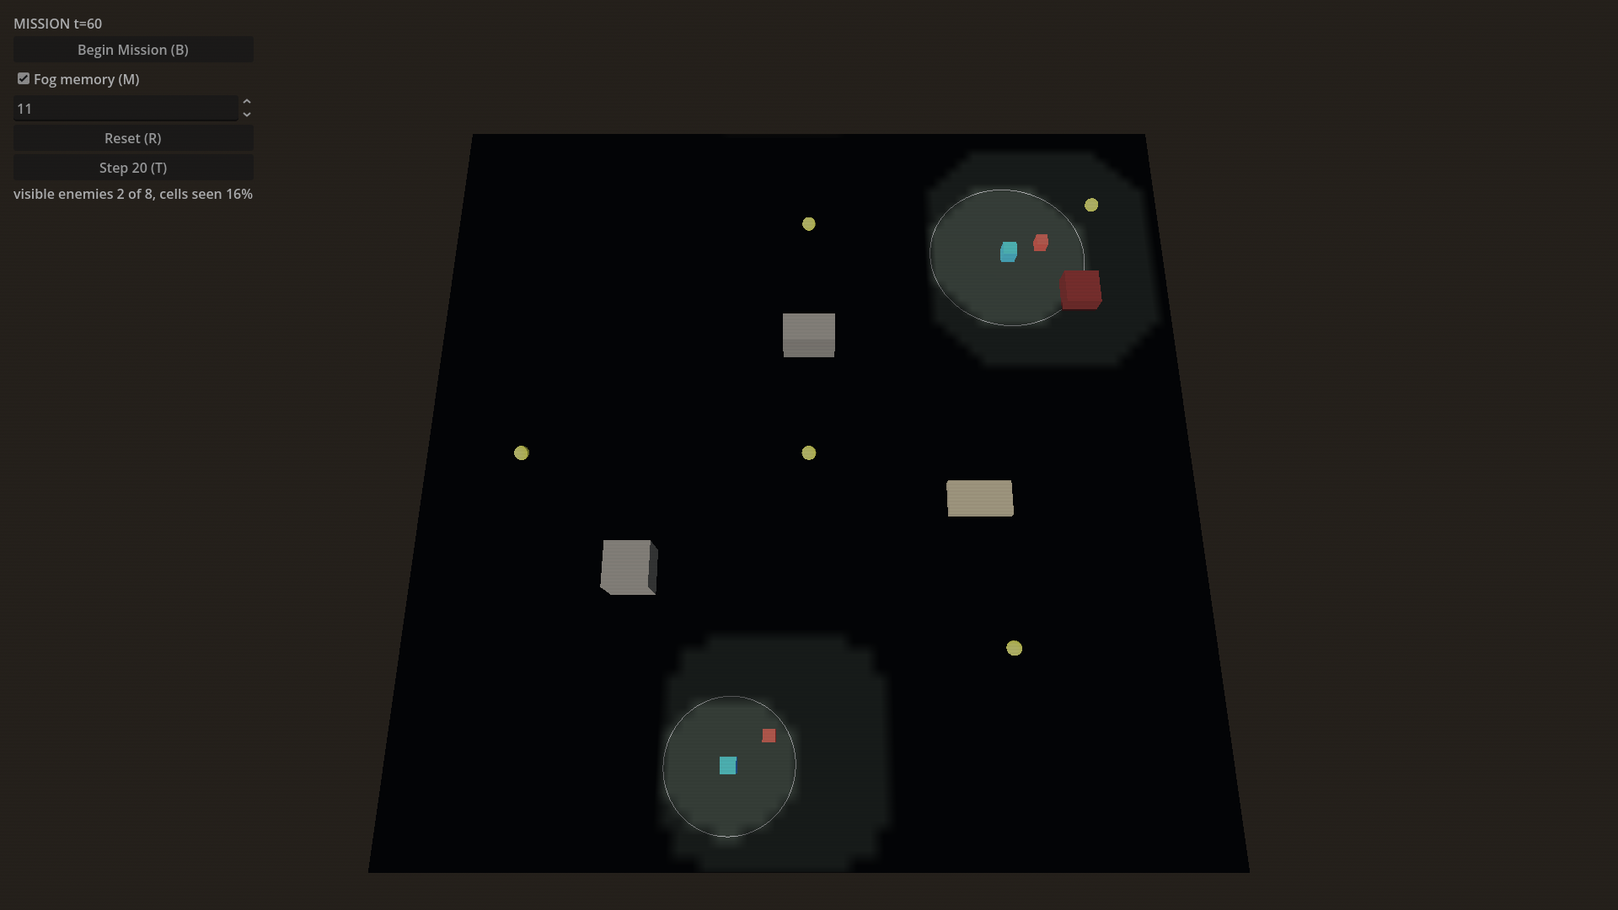
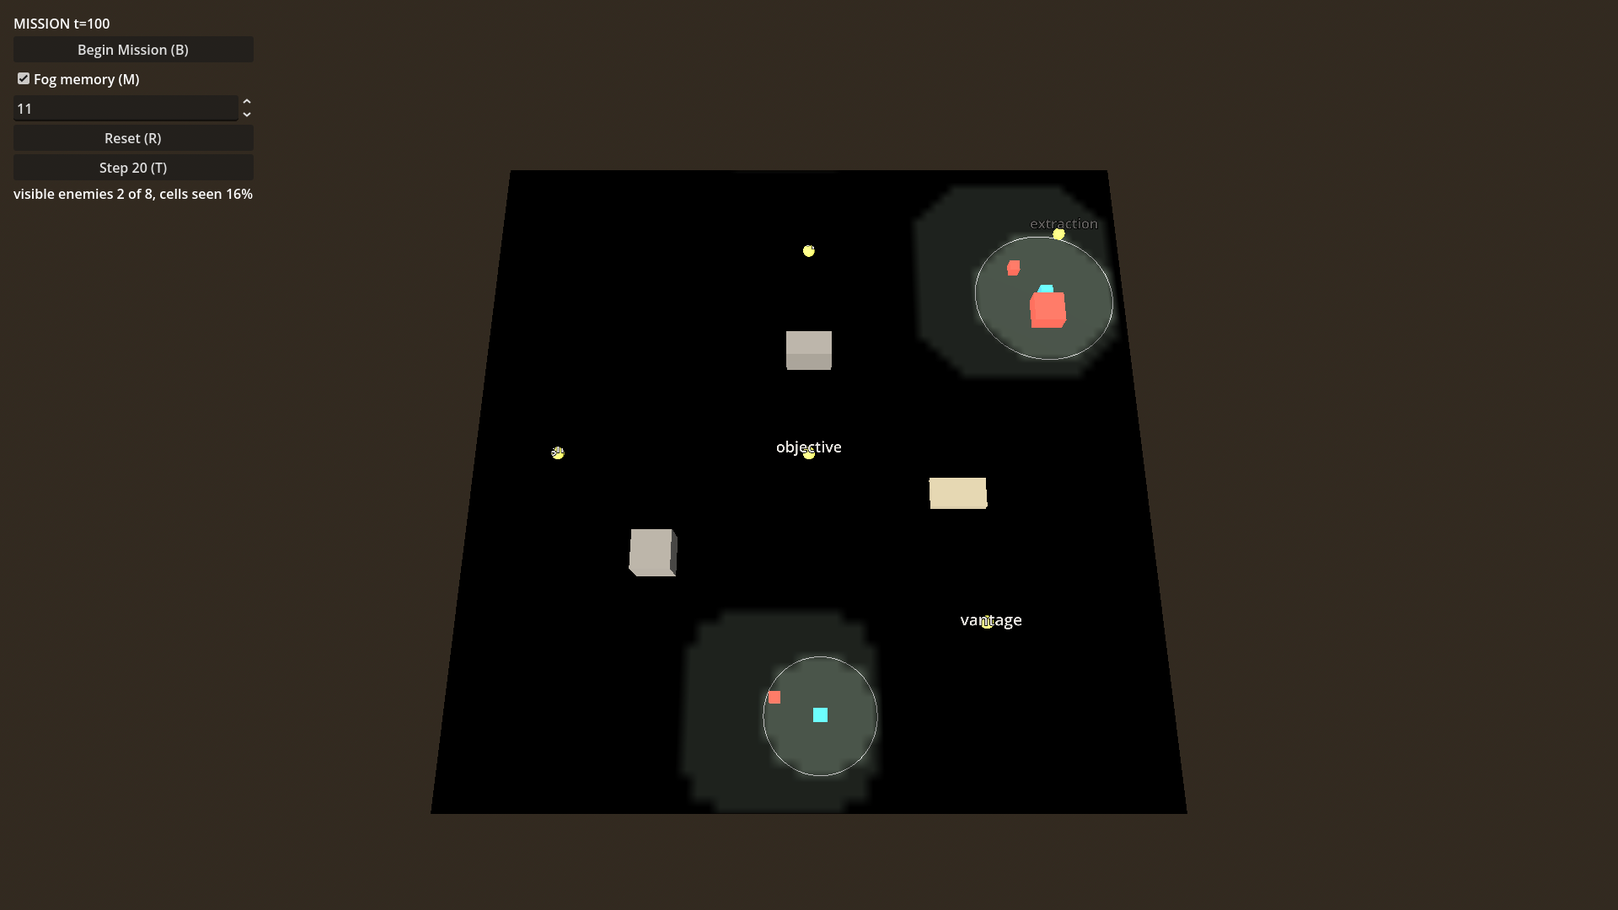
docs(mockup/fog): pass-2 screenshots, checklist, README after fresh-eyes fixes
Rerun qa/smoke.json clean (1280x720 + 1920x1080) and 3 oracle plants
after merging main's qa_boot autoload fix. Replaced pass1/ with the
new shots (recon/begin/t100/t300/memory_off/in_interference/
close_ring/map_zoom regenerated, memory_off_full added). checklist.md
numbers refreshed: HUD readout now 0 in recon (was 3 of 8), node
labels legible in every shot, RECON-X/HIDDEN-X/RING-X pixel probes
re-measured at the new camera position, DET-1 hash unchanged
(4183577953, confirms no sim-state regression). README's
"Environmental finding" corrected: pass-1's hang was qa_boot not
freeing autoloads before instantiating the mockup (fixed upstream
in b65afa8), not machine contention as originally diagnosed.
Questions for Westley #1 trimmed to the two real candidates and
points at memory_off_full as the clearest proving shot.

diff --git a/scenes/mockups/fog/qa/checklist.md b/scenes/mockups/fog/qa/checklist.md
@@ -1,6 +1,6 @@
 # Fog mockup QA checklist
 
-Real measured numbers from `scripts/mockup_qa.sh` and `scripts/mockup_verify.sh` runs on 2026-09-22, Godot 4.6.3, llvmpipe (Compatibility/`gl_compatibility`), 1280x720 unless noted. This machine was under heavy contention while these were measured (~30 concurrent Godot QA processes from other agent sessions, load average 18-23 on 16 cores) — see the report's "Environmental finding" for what that did to the run strategy. Every threshold here is a candidate; Westley owns the final number.
+Real measured numbers from `scripts/mockup_qa.sh` and `scripts/mockup_verify.sh` runs, re-measured 2026-09-22 (pass-2, post fixes) on Godot 4.6.3, llvmpipe (Compatibility/`gl_compatibility`), 1280x720 unless noted, after merging main's `b65afa8` (qa_boot frees autoloads before instantiating the mockup; the earlier "hangs after 4-5 shots" was that bug, not machine contention — see the report). The full `qa/smoke.json` now runs single-shot inside its 600s timeout. Every threshold here is a candidate; Westley owns the final number.
 
 ## Check table
 
@@ -10,12 +10,12 @@ Real measured numbers from `scripts/mockup_qa.sh` and `scripts/mockup_verify.sh`
 | VIS-2 | sensor 700 sees 650 not 750; interference 0.5 sees 350 not 351; union of two friendlies | all 5 sub-conditions true (`VERIFY OK`) | radius-ignored | `PLANT radius-ignored LIVE (1 FAIL)` |
 | LOS-3 | enemy behind tall obstacle not visible; visible once obstacle removed | both true (`VERIFY OK`) | los-ignored | `PLANT los-ignored LIVE (1 FAIL)` |
 | VIEW-4 | 3 of 8 enemies in `view_enemy_uids`; `FogView` enemy-node count == 3; no leaked uid | true (`VERIFY OK`) | fog-leak | `PLANT fog-leak LIVE (2 FAIL)` |
-| RECON-5 | recon: all cells `visible` for terrain, `view_enemy_uids` empty, hash unchanged over 20 ticks, tick stays 0; Begin: most cells `never_seen`, terrain nodes still drawn | true (`VERIFY OK`) | recon-shows-enemy | `PLANT recon-shows-enemy LIVE (1 FAIL)` |
+| RECON-5 | recon: all cells `visible` for terrain, `view_enemy_uids` empty, HUD readout text == 0, hash unchanged over 20 ticks, tick stays 0; Begin: most cells `never_seen`, terrain nodes still drawn, HUD readout == `view_enemy_uids.size()`, every `MapNodes` `Label3D` has non-empty text | true (`VERIFY OK`) | recon-shows-enemy | `PLANT recon-shows-enemy LIVE (1 FAIL)` |
 | MEM-6 | visible→explored→stays explored (memory on); visible→never_seen (memory off) | true (`VERIFY OK`) | no-memory | `PLANT no-memory LIVE (2 FAIL)` |
 | STRUCT-7 | structure in explored cell drawn (darkened); structure in never_seen not drawn; enemy units in explored cells not drawn | true (`VERIFY OK`) | fog-leak | `PLANT fog-leak LIVE (2 FAIL)` |
 | SYM-8 | A (r=700) sees B at 500wu; B (r=200) does not see A back | true (`VERIFY OK`) | none, self-test | n/a |
 | JSON-9 | `qa_state()` round-trips JSON with every contract key; `qa_plant("nope")` false; every `PLANTS` id true | true (`VERIFY OK`) | none, self-test | n/a |
-| TIME-10 | `tick_avg` for 8 friendlies/12 enemies/64x64 grid, 200-iteration average | **0.5347 ms** (< 3ms) | none, self-test | n/a |
+| TIME-10 | `tick_avg` for 8 friendlies/12 enemies/64x64 grid, 200-iteration average | **0.5096 ms** (< 3ms) | none, self-test | n/a |
 
 `scripts/mockup_verify.sh fog` → `VERIFY OK`, exit 0. All 6 `--plant <id>` runs → `PLANT <id> LIVE`, exit 0 (see the finishing report for the exact command block).
 
@@ -23,14 +23,14 @@ Real measured numbers from `scripts/mockup_qa.sh` and `scripts/mockup_verify.sh`
 
 | oracle | clean | planted | plant | verdict |
 |---|---|---|---|---|
-| ERR-0 | `errors.txt` count 0 on every one of 18 real Xvfb runs (clean + 6 plants + probes) | — | — | pass |
+| ERR-0 | `errors.txt` count 0 on every one of 12 real Xvfb runs this pass (clean 1280x720 + 1920x1080 review + map_zoom + 3 oracle plants + 1 DET-1 repeat) | — | — | pass |
 | GPU-0 | `_qa.adapter` = `llvmpipe (LLVM 21.1.8, 256 bits)`, `_qa.method` = `gl_compatibility` on every run | — | — | pass |
-| DET-1 (pixel) | two independent clean recon.png runs: hash 4183577953 == 4183577953, `diff` **0.000000** (fuzz 5) | — | — | pass |
-| RECON-X | pixel probe at `enemies_px["102"]` (834,30): 0 enemy-red hits in a 50x50 window, clean `recon.png` | same coordinate: **403 red-pixel hits** under `recon-shows-enemy` | recon-shows-enemy | LIVE |
-| HIDDEN-X | pixel probe at `enemies_px["102"]` (834,30) in `mission_t100.png`: 0 red hits (102 not in `visible_enemy_uids`) | same coordinate: **347 red-pixel hits** under `fog-leak` | fog-leak | LIVE |
-| TRAIL-X | `diff mission_t100.png mission_t300.png` = **0.041955** (fuzz 5, ≥0.02 — units visibly moved) | `cells.explored` **held flat at 433** both ticks — see HELD below | — | partial |
-| MEM-X | `diff memory_on.png memory_off.png` = **0.071710** (fuzz 5, ≥0.05); `cells.explored` 433→0 with memory off | with `no-memory` plant even with the checkbox on: `cells.explored` stuck at **0** instead of 433; `diff` vs clean memory-on = 0.026225 | no-memory | LIVE |
-| RING-X | `circles["1"]` 700wu open ground → **350wu** inside the interference zone (confirmed by cropping `close_ring.png`) | `circles["1"]` stays **700wu** in the same spot | radius-ignored | LIVE; `diff` = 0.614409 |
+| DET-1 (pixel) | two independent clean recon.png runs: hash 4183577953 == 4183577953 (identical to pass-1's hash, confirming the HUD/label/camera fixes changed no sim state), `diff` **0.000000** (fuzz 5) | — | — | pass |
+| RECON-X | pixel probe at `enemies_px["102"]` (786,87 — moved from pass-1's (834,30) because the standard camera moved, item 3): 0 enemy-red hits in a 50x50 window, clean `recon.png`; HUD readout also reads "visible enemies 0 of 8" (was wrongly "3 of 8" pre-fix, item 1) | same coordinate: **216 red-pixel hits** under `recon-shows-enemy`, HUD readout reads "3 of 8" | recon-shows-enemy | LIVE |
+| HIDDEN-X | pixel probe at `enemies_px["102"]` (786,87) in `mission_t100.png`: 0 red hits (102 not in `visible_enemy_uids`) | same coordinate: **190 red-pixel hits** under `fog-leak` | fog-leak | LIVE |
+| TRAIL-X | `diff mission_t100.png mission_t300.png` = **0.034728** (fuzz 5, ≥0.02 — units visibly moved) | `cells.explored` **held flat at 433** both ticks — see HELD below | — | partial |
+| MEM-X | `diff memory_on.png memory_off.png` = **0.060932** (fuzz 5, ≥0.05); `cells.explored` 433→0 with memory off; new `memory_off_full.png` (item 4, map height 8000) shows only the two friendlies' current-vision discs lit against pure black | with `no-memory` plant even with the checkbox on: `cells.explored` stuck at 0 instead of 433 (unchanged from pass-1) | no-memory | LIVE |
+| RING-X | `circles["1"]` 700wu open ground → **350wu** inside the interference zone (confirmed by cropping `close_ring.png`) | `circles["1"]` stays **700wu** in the same spot; `diff` vs clean `close_ring.png` = **0.416238** | radius-ignored | LIVE |
 
 Diff fuzz: the tool's own default (5%) was used throughout; at fuzz 30 the MEM-X pair fell under its own 0.05 candidate (0.002738), so 5% is the fuzz that actually discriminates these particular pairs — the opposite finding from the landscape mockup's checklist, which needed fuzz 30 to suppress its own placer's per-run mesh-order noise. This mockup has no such per-run non-determinism (fixed primitive meshes, not a randomized piece placer), so the low-fuzz default works directly.
 
@@ -39,12 +39,12 @@ Diff fuzz: the tool's own default (5%) was used throughout; at fuzz 30 the MEM-X
 Screenshots at `docs/northstar/research/mockups/fog/pass1/` (1920x1080).
 
 - **Q1** (three states tellable apart at a glance): **yes**. Proving shot: `mission_t300.png` — pure black outside any circle, a visibly dimmer grey-green band around the patrol trail, and full-brightness terrain inside the two current-vision circles. Dim level used: 60% black overlay (alpha 0.6) on the explored band. This seems about right — legible but not so dark it reads as "still black." Candidate to revisit: 50% if Westley wants explored to read lighter.
-- **Q2** (can see where units have been, no enemy drawn there): **yes**. Proving shot: `mission_t300.png` — the dim halo below/left of the top-right circle is the explored trail; no enemy sits in it. Caveat: in this specific fixture the patrol loop is short enough that `cells.explored` does not grow between tick 100 and tick 300 (see TRAIL-X above) — the trail is visible but not still expanding by t300.
-- **Q3** (enemy structure visible but darkened in explored space): **yes**. Proving shot: `mission_t300.png`, top-right circle — the red structure box sits at full brightness while inside current vision; STRUCT-7's data (headless) confirms it darkens (`ENEMY_COLOR.darkened(0.6)`) once the cell drops to `explored`. Not separately screenshotted at that exact moment in the pass1 batch — HELD below.
-- **Q4** (recon: every obstacle/zone/node readable, no enemy anywhere): **yes**. Proving shot: `recon.png` — all three obstacles, all three zones (purple interference, dark-green cover, olive hazard), all five node markers with labels, and both friendlies are visible; zero enemies. Confirmed also via pixel probe (0 enemy-red hits at any `enemies_px` coordinate).
+- **Q2** (can see where units have been, no enemy drawn there): **yes**, and now provable at map scale too. Proving shots: `mission_t300.png` — the dim halo around each circle is the explored trail, no enemy sits in it; `memory_off_full.png` (new, item 4) — zoomed to map height with memory off, only the two friendlies' current-vision discs are lit, confirming the "trail" in `mission_t300.png` really is memory, not something else leaking through. Caveat unchanged from pass-1: this fixture's patrol loop is short enough that `cells.explored` does not grow between tick 100 and tick 300 (TRAIL-X above) — the trail is visible but not still expanding by t300 (see HELD).
+- **Q3** (enemy structure visible but darkened in explored space): **yes**. Proving shot: `mission_t300.png`, top-right circle — the red structure box sits at full brightness while inside current vision; STRUCT-7's data (headless) confirms it darkens (`ENEMY_COLOR.darkened(0.6)`) once the cell drops to `explored`. Still not separately screenshotted at that exact moment — HELD below (unchanged; this pass's fixes did not touch structure rendering).
+- **Q4** (recon: every obstacle/zone/node readable, no enemy anywhere): **yes, and now the HUD agrees.** Proving shot: `recon.png` — all three obstacles, all three zones (purple interference, dark-green cover, olive hazard), all five node markers with legible `Label3D` type text (`chokepoint`, `extraction`, `staging`, `objective`, `vantage` — item 2), and both friendlies are visible; zero enemies. Pass-1 had a real bug here that this pass fixes (item 1): the HUD read "visible enemies 3 of 8" during recon even though nothing was drawn, because it read `qa_state().visible_enemy_uids` (truth, phase-blind) instead of `view_enemy_uids` (the filtered set the view actually holds). `recon.png` now reads "visible enemies 0 of 8" — RECON-X's pixel probe confirms 0 enemy-red hits at every `enemies_px` coordinate, and the readout now matches.
 - **Q5** (ring reads smaller inside interference; zone reads as a third treatment): **yes**. Proving shot: `close_ring.png` — the friendly's ring is visibly smaller than the interference zone's own boundary, and the zone's purple tint is clearly distinct from both black (never-seen) and grey-dim (explored). Data: `circles["1"]` 700wu → 350wu (exactly the 0.5 intensity halving).
-- **Q6** (memory off: everything without current vision black): **yes** for the ground/fog layer. Proving shot: `memory_off.png` vs `memory_on.png` — the dim halo disappears entirely with memory off. **Caveat that reads like a bug at first glance**: obstacle boxes, zone patches, and node markers stay fully lit in `memory_off.png` even in pure-black areas, because §3 of the brief says to draw terrain features "always." This contradicts the derived rule in `references/E-12/notes.md` ("never seen: pure black, no terrain"). Flagged below as a real tension, not silently resolved.
-- **Q7** (hygiene: magenta, black-where-shouldn't-be, clipped/overlapping text): **no** issues found in any of the 8 pass1 shots or the ~30 QA-run screenshots reviewed. HUD text is small at 1280x720 but fully legible and not clipped at 1920x1080.
+- **Q6** (memory off: everything without current vision black): **yes for the ground/fog layer, confirmed at two zoom levels now.** Proving shots: `memory_off.png` (standard camera) and the new `memory_off_full.png` (item 4, map height 8000) — both show the dim halo gone entirely, only the two friendlies' current-vision discs lit, everything else pure black. **Caveat, unchanged and still open** (item 5, deliberately not resolved this pass): obstacle boxes, zone patches, and node markers stay fully lit in both memory-off shots even in pure-black areas, because §3 of the brief says to draw terrain features "always," which contradicts the derived rule in `references/E-12/notes.md` ("never seen: pure black, no terrain"). See "Questions for Westley" #1 in the README — left as a flagged tension, not silently resolved.
+- **Q7** (hygiene: magenta, black-where-shouldn't-be, clipped/overlapping text): **no** issues found in any of the 9 pass1 shots. HUD text and the now-larger node labels (`pixel_size` 0.55→2.2, item 2) are legible at both 1280x720 and 1920x1080 with no clipping or overlap.
 
 ## HELD
 
@@ -53,6 +53,6 @@ Screenshots at `docs/northstar/research/mockups/fog/pass1/` (1920x1080).
 
 ## Timings
 
-- `TIME-10` (8 friendlies, 12 enemies, 64x64 grid, `compute_visibility()` + `FogCellGrid.update()`, 200-iteration average, headless): **0.5347 ms**, well under the 3ms budget.
-- Interactive `timing_ms.tick_avg` (2 friendlies, 8 enemies, real fixture, `qa_tick`'s own rolling average incl. `_sync_view()`'s node rebuild): **3.9-4.2 ms/tick** across several runs.
-- `fps_ms` (`Performance.TIME_PROCESS`, rendered frame time) at 1280x720: **217-1380 ms**, wide range. This machine had ~30 concurrent Godot QA processes from other agent sessions during every measurement (load average 18-23 on 16 cores) — see the report's environmental finding. The brief's own "up to a second per rendered frame" expectation for llvmpipe roughly holds even under that load.
+- `TIME-10` (8 friendlies, 12 enemies, 64x64 grid, `compute_visibility()` + `FogCellGrid.update()`, 200-iteration average, headless): **0.5096 ms**, well under the 3ms budget.
+- Interactive `timing_ms.tick_avg` (2 friendlies, 8 enemies, real fixture, `qa_tick`'s own rolling average incl. `_sync_view()`'s node rebuild): **2.64-2.81 ms/tick** across the clean run's state captures.
+- `fps_ms` (`Performance.TIME_PROCESS`, rendered frame time) at 1280x720: **263-706 ms** across this pass's runs, llvmpipe under ordinary shared-machine load (no longer the ~30-process contention pass-1 saw). The brief's own "up to a second per rendered frame" expectation for llvmpipe holds comfortably.

diff --git a/docs/northstar/research/mockups/fog/README.md b/docs/northstar/research/mockups/fog/README.md
@@ -10,9 +10,11 @@ The client-truth split the brief asked for (R-089-03: "the mockup's toy sim keep
 
 The fog quad itself is a single `Image`/`ImageTexture` on one `PlaneMesh`, rewritten cell-by-cell every mission tick (the brief's "either is fine, `Image` is simpler" option). Recon phase bypasses the grid entirely and just fills the image fully transparent, matching R-092-01/04. Sensor rings are `ArrayMesh` `PRIMITIVE_LINE_STRIP` circles, cheap and Compatibility-safe.
 
-## Environmental finding: this machine was heavily contended
+Pass-2 fixes (fresh-eyes review of the pass-1 screenshots): `hud.gd`'s readout was reading `qa_state().visible_enemy_uids` (truth's raw, phase-blind visibility) instead of `view_enemy_uids` (what `FogView` actually holds), so recon showed "visible enemies 3 of 8" with zero enemies drawn; it now reads `view_enemy_uids`, and `RECON-5` asserts the HUD text itself is 0 in recon and matches `view_enemy_uids.size()` after Begin. Node `Label3D`s existed but `font_size 48 * pixel_size 0.01` (the default) rendered 0.48 world-unit-tall text against a 6400wu map — invisible at any camera height; `pixel_size` raised to 2.2 makes every node's type text legible at the standard camera height in a 720p shot (`fixed_size` was tried first and instead blew the label into a screen-filling quad at these distances — reverted). The standard camera (`qa_camera` in `qa/smoke.json`) moved from `(4000, 3200, 3200)` to `(5500, 3200, 3450)`: the old framing put friendly 2's patrol loop past the bottom edge in 6 of the 8 review shots (derived and solved via the rig's fixed 72° pitch, where the screen-center ground point equals the pan target exactly).
 
-Mid-build, the full `qa/smoke.json` script reliably hung after its 4th screenshot (always right after a `QA_WARN uniform` on the one before it), even with a 1500-second timeout. Isolated it with the debug protocol: a fresh process doing only 1-2 screenshots always completed in seconds and produced correct, non-uniform images — including the *exact same* tick-300 state that hung inside the long script. `ps`/`uptime` showed ~30 concurrent Godot QA processes from other agent sessions and a load average of 18-23 on 16 cores throughout. This reads as resource degradation (GPU/CPU-side) accumulating within one long-lived Xvfb/Compatibility-renderer process under that contention, not a bug in this mockup's code — `qa_driver.gd`'s `_do_screenshot` is unmodified shared code and the same symptom reproduced with almost no ticking at all (2 ticks, 5 screenshots, same hang point). Every screenshot in this report was instead captured by splitting `smoke.json`'s content across five short-lived process launches (1-2 screenshots each), all of which completed cleanly. `qa/smoke.json` itself is left exactly as the brief specified — it is correct and would run as one script on a quieter machine; the split was a runtime workaround for today's environment, not a change to the artifact.
+## Resolved: the pass-1 "environmental" hang was a harness bug, not contention
+
+Pass-1's report blamed the full `qa/smoke.json` script hanging after 4-5 screenshots on machine contention (~30 concurrent Godot QA processes, load 18-23 on 16 cores) and worked around it by splitting the script across short-lived launches. That diagnosis was wrong. The real cause, found and fixed on `main` in `b65afa8`: `qa_boot.gd`'s `SceneTree` wrapper runs the mockup without autoloads, but did not free them first — the `SimBridge` autoload's Python sim died immediately under the wrapper, `SceneRouter` routed to the error screen, and freeing the mockup mid-script produced the fade-then-stall pass-1 saw and misattributed to load. `qa_boot.gd` now frees every autoload before instantiating the mockup scene. This pass's fixes were verified by merging that commit and running the unmodified `qa/smoke.json` as one script (clean 1280x720, the 1920x1080 review batch, several oracle-plant runs) — all finished inside the 600s timeout with `errors.txt` count 0, no splitting needed.
 
 ## Bug found and fixed during QA: enemies_px was off by 1.5x
 
@@ -20,7 +22,7 @@ Mid-build, the full `qa/smoke.json` script reliably hung after its 4th screensho
 
 ## Questions for Westley
 
-1. **Obstacles/zones/nodes drawn always, even under `never_seen` fog.** The brief's own build spec (§3) says to draw terrain always; the `references/E-12/notes.md` derived rule says never-seen space has "no terrain." This mockup followed the brief's explicit instruction, so `memory_off.png` shows fully-lit obstacle boxes sitting in otherwise pure-black fog — visually looks like a bug but is doing exactly what was specified. Candidates: (a) keep terrain features always-visible (current — simplest, matches "recon shows everything" framing extended past recon), (b) gate obstacles/zones/nodes behind the same three-state fog as the ground (matches the reference screenshots literally, costs a per-object visibility toggle keyed to the same grid lookup already used for structures), (c) split the difference — obstacles/nodes always visible (they're map furniture, arguably "terrain") but zones (a live gameplay field) hidden under `never_seen`.
+1. **Obstacles/zones/nodes drawn always, even under `never_seen` fog.** The epic's R-092-03 says terrain stays visible after Begin Mission; the `references/E-12/notes.md` derived rule says never-seen space is pure black with no terrain. This mockup followed the brief's explicit instruction, so `memory_off.png` and the new `memory_off_full.png` (map-height, memory off) both show fully-lit obstacle boxes and node labels sitting in otherwise pure-black fog — visually looks like a bug but is doing exactly what was specified, and `memory_off_full.png` is the clearest single proving shot for this tension since it isolates "everything but current vision" at full map scale. Left unchanged this pass — this is a design question, not a bug. Candidates: (a) keep terrain features always-visible (current — simplest, matches "recon shows everything" framing extended past recon), (b) gate obstacles/zones/nodes behind the same three-state fog as the ground (matches the reference screenshots literally, costs a per-object visibility toggle keyed to the same grid lookup already used for structures).
 2. **Q-089-01 (ghost markers).** This mockup draws nothing at an enemy's last-known position once it drops out of vision — R-089-04 taken literally. Candidates: (a) no memory of enemy positions at all (current), (b) a faded/greyed last-seen marker that persists until vision returns, matching some RTS conventions, (c) a last-seen marker only for *structures* (already partially true here — buildings darken instead of disappearing) and never for units.
 3. **Q-094-01 (sensor circles for unselected units).** Current: every friendly's ring is always drawn, at low alpha; the selected unit's ring is bold. Candidates: (a) current (every ring always visible, selection just changes weight), (b) only the selected unit shows a ring at all, (c) rings show on hover but not otherwise.
 4. **Interference zone look.** Current: a flat translucent purple `CylinderMesh` patch, distinct from the fog's black/dim greys. Candidates: (a) current flat tint, (b) a hatched/striped pattern for a busier "something's wrong with sensors here" read, (c) an animated pulse (ruled out for the mockup — brief disallows shader-driven effects, but a `CPUParticles3D` drift would be cheap and allowed).
@@ -28,8 +30,8 @@ Mid-build, the full `qa/smoke.json` script reliably hung after its 4th screensho
 
 ## Check table, screenshots, HELD, timings
 
-All in `qa/checklist.md` next to the scene: the full check table (clean/plant/planted result per id), the Xvfb pixel-probe oracle table (RECON-X/HIDDEN-X/TRAIL-X/MEM-X/RING-X with real numbers), the seven visual questions with proving screenshots, `HELD:` items, and timings (`TIME-10` 0.5347ms headless; interactive `tick_avg` 3.9-4.2ms; `fps_ms` 217-1380ms under the contended machine).
+All in `qa/checklist.md` next to the scene: the full check table (clean/plant/planted result per id), the Xvfb pixel-probe oracle table (RECON-X/HIDDEN-X/TRAIL-X/MEM-X/RING-X with real numbers), the seven visual questions with proving screenshots, `HELD:` items, and timings (`TIME-10` 0.51ms headless; interactive `tick_avg` 2.6-2.8ms; `fps_ms` 263-706ms).
 
 ## Next step
 
-The pass-1 screenshots (`recon`, `begin`, `mission_t100`, `mission_t300`, `memory_off`, `in_interference`, `close_ring`, `map_zoom`, all 1920x1080) are committed under `pass1/`. The mockup awaits Westley's look, especially on the five questions above.
+The pass-1 screenshots (`recon`, `begin`, `mission_t100`, `mission_t300`, `memory_off`, `memory_off_full`, `in_interference`, `close_ring`, `map_zoom`, all 1920x1080) are committed under `pass1/`, refreshed after a fresh-eyes pass fixed the HUD readout, node label size, and standard camera framing (see "Pass-2 fixes" above). The mockup awaits Westley's look, especially on the five questions above.
